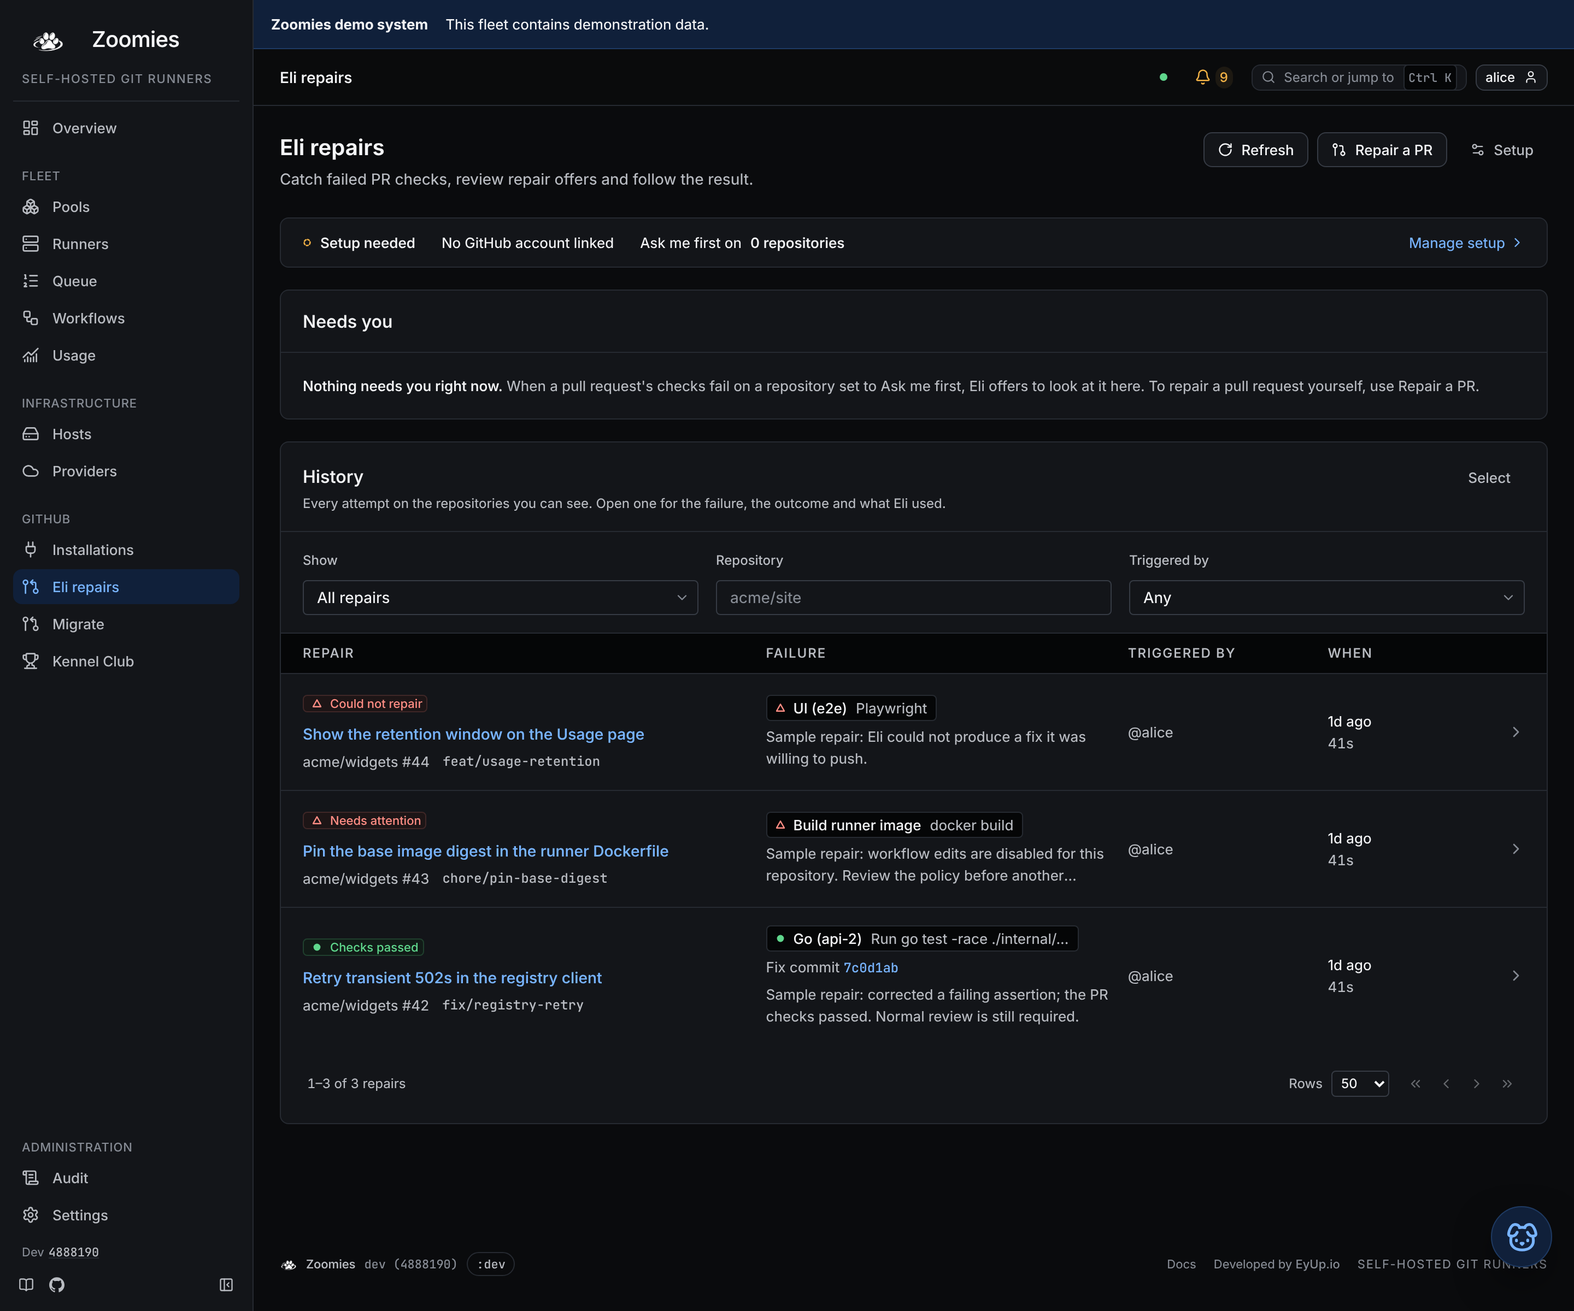
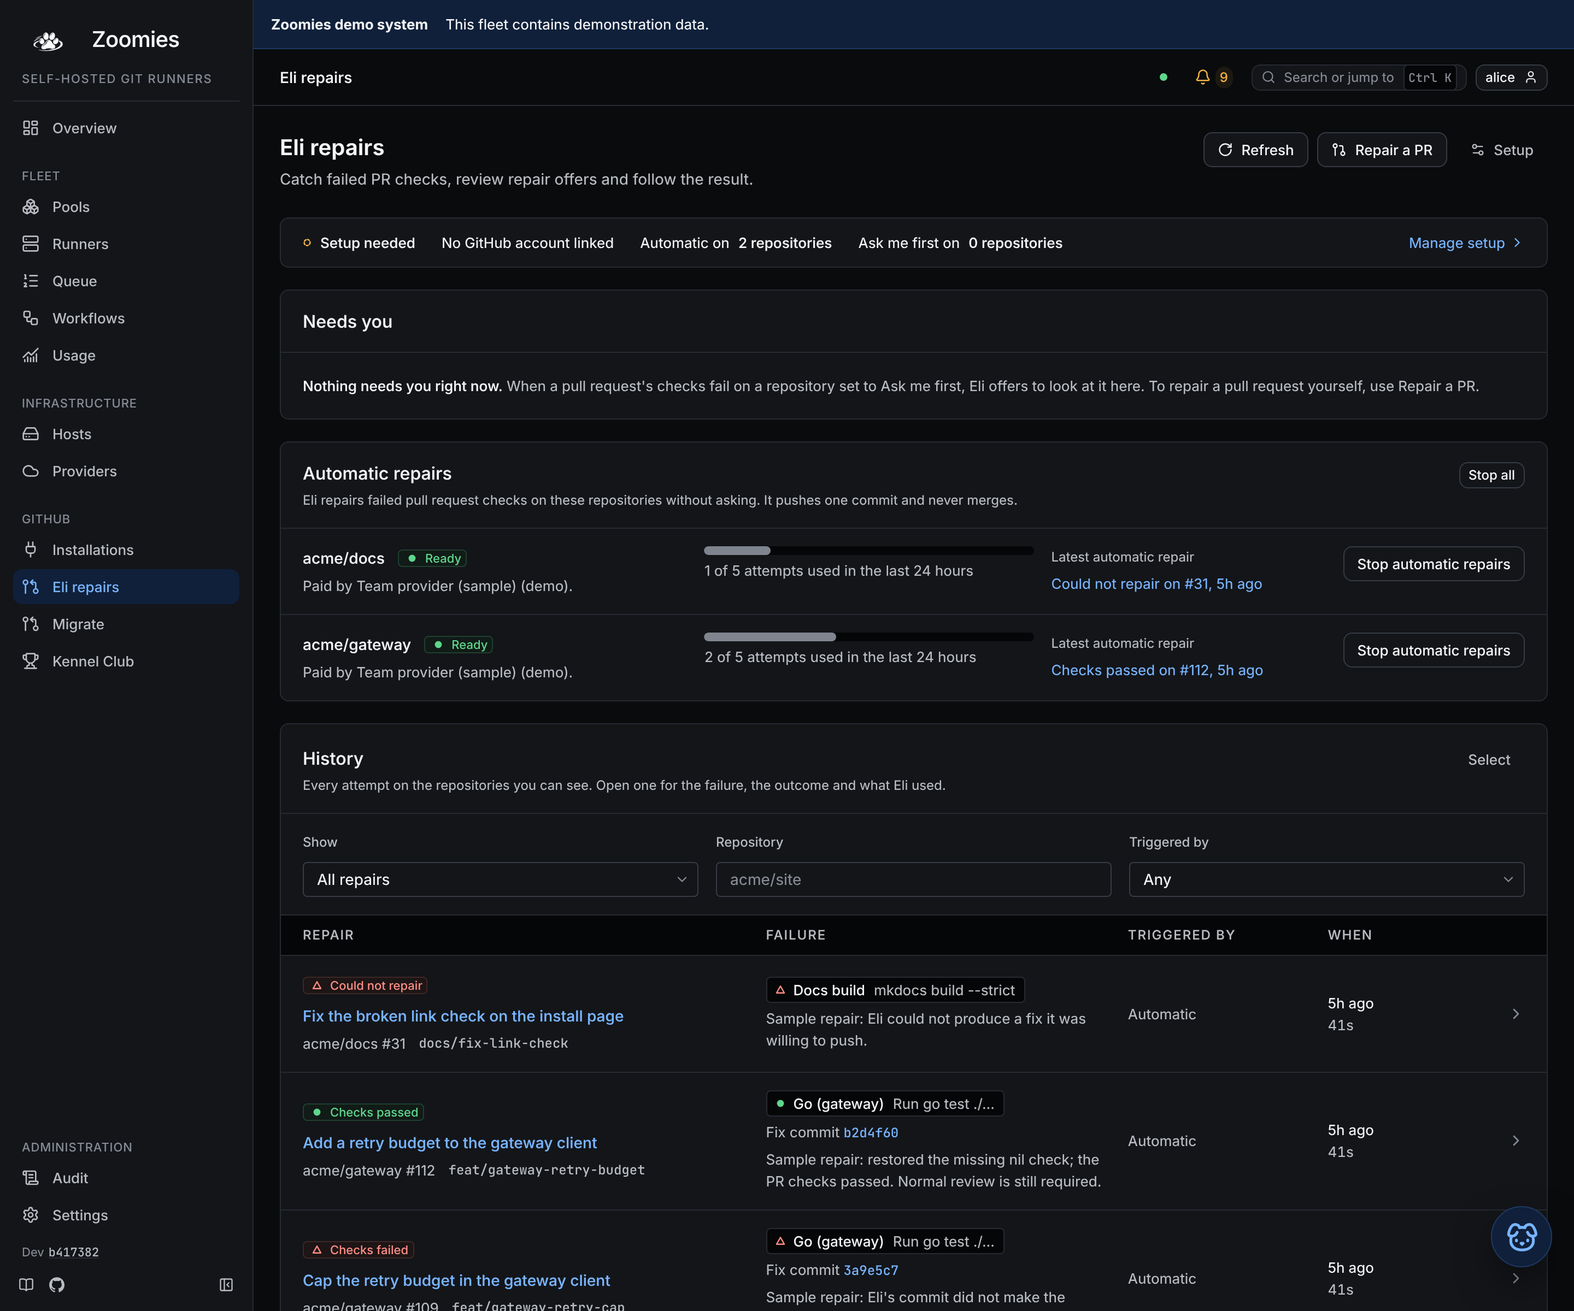
Document watching and stopping automatic repairs
Claude-Session: https://claude.ai/code/session_01H6ZixeTMVtQKxorgdEW2aq

diff --git a/web/tests/support/repair-fixture/main.go b/web/tests/support/repair-fixture/main.go
@@ -99,5 +99,71 @@ func seed() error {
 			return err
 		}
 	}
+	return seedAutomatic(ctx, st, inst.ID, &clock)
+}
+
+// seedAutomatic makes two repositories repair themselves, with an installation
+// provider to pay for it and a few repairs the policy started, so the hub shows its
+// Automatic repairs panel and an attempt shows the card that says where its policy
+// stands. The repairs are recent, inside the 24-hour window the allowance counts, and
+// every one is terminal, so the worker has nothing to run.
+func seedAutomatic(ctx context.Context, st *store.Store, installation string, clock *time.Time) error {
+	provider := &store.AssistantProvider{Name: "Team provider (sample)", Kind: "fake", Model: "demo", Enabled: true}
+	if err := st.CreateAssistantProvider(ctx, provider); err != nil {
+		return err
+	}
+	for _, repo := range []string{"acme/gateway", "acme/docs"} {
+		if err := st.SetEliRepairPolicy(ctx, store.EliRepairPolicy{
+			Repo: repo, InstallationID: installation, ProviderID: provider.ID,
+			Enabled: true, Automatic: true, DailyLimit: 5,
+		}); err != nil {
+			return err
+		}
+	}
+	*clock = time.Now().Add(-5 * time.Hour)
+	for _, sample := range []struct {
+		repo                             string
+		pull                             int
+		state, message, stage, failure   string
+		commit, title, branch, job, step string
+	}{
+		{"acme/gateway", 109, "checks_failed", "Sample repair: Eli's commit did not make the checks pass. Automatic repair does not try the same commit twice; a maintainer can ask again.", "watch_ci", "",
+			"3a9e5c7d1f0b2468ace02468ace13579bdf02468", "Cap the retry budget in the gateway client", "feat/gateway-retry-cap", "Go (gateway)", "Run go test ./..."},
+		{"acme/gateway", 112, "succeeded", "Sample repair: restored the missing nil check; the PR checks passed. Normal review is still required.", "checks_passed", "",
+			"b2d4f6081a3c5e7092b4d6f8a0c2e4681a3c5e70", "Add a retry budget to the gateway client", "feat/gateway-retry-budget", "Go (gateway)", "Run go test ./..."},
+		{"acme/docs", 31, "failed", "Sample repair: Eli could not produce a fix it was willing to push.", "prepare_fix", "unsupported_fix",
+			"", "Fix the broken link check on the install page", "docs/fix-link-check", "Docs build", "mkdocs build --strict"},
+	} {
+		const run = 5210
+		// A commit that looks like one: forty hex digits with no run of zeros at the front.
+		head := fmt.Sprintf("%016x%016x%08x", uint64(sample.pull)*0x9e3779b97f4a7c15, uint64(sample.pull)*0xc2b2ae3d27d4eb4f, uint32(sample.pull)*0x85ebca6b)
+		kept := &store.EliRepairCase{
+			PullTitle: sample.title,
+			PullURL:   fmt.Sprintf("https://github.com/%s/pull/%d", sample.repo, sample.pull),
+			Author:    "alice", Branch: sample.branch,
+			RunURL:   fmt.Sprintf("https://github.com/%s/actions/runs/%d", sample.repo, run+sample.pull),
+			Workflow: "CI", RunNumber: run + int64(sample.pull),
+			Jobs: []store.EliRepairCaseJob{{
+				Name: sample.job, Step: sample.step, DurationMS: 143000,
+				URL: fmt.Sprintf("https://github.com/%s/actions/runs/%d/job/%d", sample.repo, run+sample.pull, 91000+sample.pull),
+			}},
+		}
+		r := &store.EliRepair{
+			DedupKey: "automatic:" + sample.repo + ":" + head, InstallationID: installation,
+			Repo: sample.repo, PullNumber: sample.pull, RunID: int64(run + sample.pull), HeadSHA: head,
+			ProviderID: provider.ID, Trigger: "automatic", CommitSHA: sample.commit,
+			Details: store.EliRepairDetails{Model: "demo (sample history)", Stage: sample.stage, FailureCode: sample.failure, Case: kept,
+				SourceBytes: 27648,
+				Steps:       []store.EliRepairStep{{InputTokens: 18200, OutputTokens: 1400, UsageReported: true, RequestBytes: 61440, ElapsedMS: 33000}},
+			},
+		}
+		if _, err := st.EnqueueEliRepair(ctx, r, 5); err != nil {
+			return err
+		}
+		r.State, r.Message = sample.state, sample.message
+		if err := st.SaveEliRepair(ctx, r); err != nil {
+			return err
+		}
+	}
 	return nil
 }

diff --git a/docs/ui.md b/docs/ui.md
@@ -850,7 +850,8 @@ one repair; and setup. [How repairs work](eli.md#set-up-pr-repairs).
 
 The hub opens with one line about setup: whether you can repair (your GitHub
 account is linked and has allowed repairs) and, for an administrator, how many
-repositories are set to ask first. **Manage setup** is beside it. Under that:
+repositories repair themselves and how many ask first. **Manage setup** is
+beside it. Under that:
 
 * **Needs you** lists the offers Eli has made for pull requests whose checks
   failed on a repository set to *Ask me first*, one per pull request head. Each
@@ -861,6 +862,21 @@ repositories are set to ask first. **Manage setup** is beside it. Under that:
 * **In progress** lists the repairs Eli is working on, each with the step it is
   on and how long it has been going. **Follow** opens it. You can leave: the
   result appears here and in History.
+* **Automatic repairs** appears for an administrator when at least one
+  repository is set to *Automatic*, and for nobody else: where nothing repairs
+  itself the hub says nothing about it. Each repository has a row. It says who
+  pays (the installation provider and its model) and whether that can work, with
+  a sentence and a **Fix in setup** link when the provider is missing, disabled
+  or a person's; how much of the allowance the last 24 hours have used, which is
+  the repository's and is shared with repairs people ask for, and, when it is all
+  used, when a place frees; the latest automatic repair, which opens, and how
+  many are running now. **Stop automatic repairs** opens a dialog that asks what
+  should happen instead, **Ask me first** or **Turn repairs off**, and says what
+  becomes of a repair already under way: one that has not pushed yet stops
+  without changing the branch, and one that has pushed carries on watching its
+  checks. With two or more repositories **Stop all** does the same for every
+  row. Stopping never turns anything on; starting Automatic is a decision made
+  in setup.
 * **History** is a page at a time and filtered by state, repository and who or
   what began the repair. A row says what the repair was about: its state, the pull
   request's title, repository and branch, the job and step that failed, the
@@ -873,8 +889,8 @@ repositories are set to ask first. **Manage setup** is beside it. Under that:
 **Repair a PR** asks for a pull request's address and opens its repair page,
 where Eli checks it before anything is spent.
 
-![Eli repairs: the setup line, an empty Needs you, and History with a repair that could not fix its failure, one that needs attention and one whose checks passed, each with its pull request, its failed job and when it ran](screenshots/eli-repairs-dark.webp#only-dark){ .zoomies-shot }
-![Eli repairs: the setup line, an empty Needs you, and History with a repair that could not fix its failure, one that needs attention and one whose checks passed, each with its pull request, its failed job and when it ran](screenshots/eli-repairs-light.webp#only-light){ .zoomies-shot }
+![Eli repairs: the setup line counting two repositories that repair themselves, an empty Needs you, the Automatic repairs panel with each repository's provider, allowance, latest repair and a Stop automatic repairs button, and History with each repair's pull request, its failed job and when it ran](screenshots/eli-repairs-dark.webp#only-dark){ .zoomies-shot }
+![Eli repairs: the setup line counting two repositories that repair themselves, an empty Needs you, the Automatic repairs panel with each repository's provider, allowance, latest repair and a Stop automatic repairs button, and History with each repair's pull request, its failed job and when it ran](screenshots/eli-repairs-light.webp#only-light){ .zoomies-shot }
 
 The repair page opens from **Fix with Eli** on a failure in the Overview or in a
 job's **Why** drawer, from an offer, or from a pasted pull request. It shows the
@@ -900,6 +916,16 @@ instead of offering a repair; for a newer commit, **Check the current PR** asks
 again about the pull request as it stands now. When GitHub does not answer, the
 card says so and offers to ask again, whichever check was being made.
 
+On a repository set to Automatic, a note sits above that card. For an
+administrator it says whether Eli already tried this failure on its own, with a
+link to the attempt (Eli does not try the same commit twice by itself, so
+starting another attempt here is the retry), or that nothing has started and the
+most likely reason: the provider cannot pay, the allowance is used up, or Eli
+starts from GitHub's report of a failed job and this failure was reported before
+Automatic was switched on or never arrived. For anyone else it is one sentence
+saying the repository repairs itself, because an ordinary person cannot read what
+Eli did on its own.
+
 ![The repair page for a pull request Eli cannot yet act on: the failure it is about, a wizard to link a GitHub account, and the checks, with the account and the model provider in the way](screenshots/eli-repair-readiness-dark.webp#only-dark){ .zoomies-shot }
 ![The repair page for a pull request Eli cannot yet act on: the failure it is about, a wizard to link a GitHub account, and the checks, with the account and the model provider in the way](screenshots/eli-repair-readiness-light.webp#only-light){ .zoomies-shot }
 
@@ -918,6 +944,17 @@ states and sizes on the clipboard for a bug report, and nothing Eli read.
 
 ![One repair that could not fix its failure: how it ended, what to try next, the pull request and job it was asked to fix, and its technical details with each model call, one of them with usage the provider did not report](screenshots/eli-repair-attempt-dark.webp#only-dark){ .zoomies-shot }
 ![One repair that could not fix its failure: how it ended, what to try next, the pull request and job it was asked to fix, and its technical details with each model call, one of them with usage the provider did not report](screenshots/eli-repair-attempt-light.webp#only-light){ .zoomies-shot }
+
+A repair the repository's policy started says so under **This attempt**
+(**Started by** Automatic repairs, by the repository's policy), and an
+administrator also gets a card, **Automatic repairs on** the repository, beside
+it. The card says where that policy stands now: still automatic (who pays, how
+much of the allowance is used), with **Stop automatic repairs** and a link to the
+policy in setup, or no longer automatic. While the repair has not pushed yet it
+says that stopping now also stops this repair.
+
+![An automatic repair that did not fix its failure: Started by Automatic repairs, and the Automatic repairs card for the repository with who pays, the allowance used, Stop automatic repairs and a link to its policy](screenshots/eli-repair-automatic-dark.webp#only-dark){ .zoomies-shot }
+![An automatic repair that did not fix its failure: Started by Automatic repairs, and the Automatic repairs card for the repository with who pays, the allowance used, Stop automatic repairs and a link to its policy](screenshots/eli-repair-automatic-light.webp#only-light){ .zoomies-shot }
 
 **Repair setup** is where administrators choose the repositories and **When
 should Eli help?**, and link each requester's GitHub account to their Zoomies

diff --git a/docs/eli.md b/docs/eli.md
@@ -453,8 +453,8 @@ history below uses labelled sample outcomes; no real PR was changed to produce
 these images. A stopped attempt explains what needs attention before you spend
 another attempt, while a passed repair still needs normal PR review.
 
-![Eli repairs: the setup line, an empty Needs you, and History with a repair that could not fix its failure, one that needs attention and one whose checks passed, each with its pull request, its failed job and when it ran](screenshots/eli-repairs-dark.webp#only-dark){ .zoomies-shot }
-![Eli repairs: the setup line, an empty Needs you, and History with a repair that could not fix its failure, one that needs attention and one whose checks passed, each with its pull request, its failed job and when it ran](screenshots/eli-repairs-light.webp#only-light){ .zoomies-shot }
+![Eli repairs: the setup line counting two repositories that repair themselves, an empty Needs you, the Automatic repairs panel with each repository's provider, allowance, latest repair and a Stop automatic repairs button, and History with each repair's pull request, its failed job and when it ran](screenshots/eli-repairs-dark.webp#only-dark){ .zoomies-shot }
+![Eli repairs: the setup line counting two repositories that repair themselves, an empty Needs you, the Automatic repairs panel with each repository's provider, allowance, latest repair and a Stop automatic repairs button, and History with each repair's pull request, its failed job and when it ran](screenshots/eli-repairs-light.webp#only-light){ .zoomies-shot }
 
 From **Recent failures**, click the failure summary to inspect its failed step,
 explanation and timeline, or choose **Fix with Eli**. The repair page opens on
@@ -566,6 +566,62 @@ which on a repository whose CI fails often can use it up before anyone asks.
 The App's own GitHub handle (for example `@zoomies-eyupio2`, the name GitHub
 autocompletes) works too, once Zoomies has learned the App's slug. Recognition
 uses the comment text and does not require GitHub mention notification routing.
+
+### Watching and stopping automatic repairs
+
+A repository set to **Automatic** has Eli repair its failed pull request checks
+with nobody asking: when a job fails on the head of an open pull request that Eli
+may repair, a repair is queued, paid for by the repository's installation
+provider, and Eli pushes one commit. Because nobody is there when that happens,
+the Eli repairs page shows it, to an administrator and to nobody else: automatic
+repairs have no owner, so no one else can read them. A repository that is not
+automatic adds nothing to any page.
+
+The hub's **Automatic repairs** panel appears when at least one enabled policy is
+Automatic. Each repository has a row, and the ones that cannot run come first:
+
+* **Who pays, and whether they can.** A provider that was deleted (which leaves
+  the policy with none), is disabled or belongs to a person cannot pay for an
+  unattended repair, and the row says so in a sentence with a link to the policy
+  in setup, before the next failure is spent on it.
+* **The allowance.** How many attempts the last 24 hours have used out of the
+  daily limit. It is the repository's, shared by repairs people ask for and by the
+  automation, and a repair cleared from the history still counts. When every
+  attempt is used the row says when the oldest leaves the window. Until then no
+  automatic repair starts there, and a repair started by hand is refused for the
+  same reason.
+* **The latest automatic repair** still in the history, which opens, and how many
+  are running now.
+
+**Stop automatic repairs** (and **Stop all**, with two or more repositories) asks
+what should happen instead. **Ask me first** hands the decision back: when checks
+fail Eli offers a repair under *Needs you* and waits, and the repository keeps its
+provider, allowance and workflow setting. **Turn repairs off** clears the policy's
+enable switch and nothing else, so Eli neither offers nor starts a repair there
+and nobody can request one until the switch is turned back on in repair setup,
+which resumes Automatic as it was. Either way, a repair already queued is blocked
+when the worker reaches it, and one that has not pushed yet stops before it
+changes the branch; one that has pushed carries on watching its checks. The stop
+needs no working provider, which is the day it is wanted, writes an
+`assistant.repair_automatic_stop` audit row for each repository it changed, and
+never turns anything on: starting Automatic is a decision made in setup.
+
+A repair the policy started says so on its own page (**Started by** Automatic
+repairs, by the repository's policy), and an administrator gets a card for the
+repository's policy with the same stop. On the repair page of a failure on an
+automatic repository a note says whether Eli already tried this failure on its
+own (it does not try the same commit twice by itself, so starting another attempt
+is the retry) or why nothing has started. Eli starts an automatic repair from
+GitHub's report that a job failed, so a failure reported before Automatic was
+switched on, or whose report never arrived, is not picked up on its own. Anyone
+else who opens that page sees one sentence saying the repository repairs itself.
+
+![An automatic repair that did not fix its failure: Started by Automatic repairs, and the Automatic repairs card for the repository with who pays, the allowance used, Stop automatic repairs and a link to its policy](screenshots/eli-repair-automatic-dark.webp#only-dark){ .zoomies-shot }
+![An automatic repair that did not fix its failure: Started by Automatic repairs, and the Automatic repairs card for the repository with who pays, the allowance used, Stop automatic repairs and a link to its policy](screenshots/eli-repair-automatic-light.webp#only-light){ .zoomies-shot }
+
+The panel reads `GET /api/v1/assistant/repairs/automatic` and the stop is
+`POST /api/v1/assistant/repairs/automatic/stop`, both for administrators; the
+[API surface](api-surface.md) describes them.
 
 ## What a repair does
 

diff --git a/roadmap/progress.md b/roadmap/progress.md
@@ -91,6 +91,26 @@ evidence.
 
 ## Log
 
+* 2026-10-18: Automatic repairs can be watched and stopped from the Eli repairs
+  pages: [the spec](plans/2026-10-18-eli-automatic-repairs.md) and
+  [the plan](plans/2026-10-18-eli-automatic-repairs-plan.md). The pages built
+  earlier the same day never mentioned them. An administrator whose fleet has a
+  repository set to Automatic gets an Automatic repairs panel on the hub (who pays
+  and whether they can, how much of the allowance the last 24 hours have used and
+  when a place frees, the latest automatic repair, and a stop for one repository or
+  all of them), a card on an automatic repair's own page, and a note on the repair
+  page that says whether Eli already tried the failure or why nothing started.
+  Everyone else sees one sentence on the repair page and nothing more, and a fleet
+  with nothing automatic sees nothing at all. The API changes are additive and need
+  no migration: `GET /assistant/repairs/automatic` for administrators,
+  `POST /assistant/repairs/automatic/stop`, which only relaxes a policy and so works
+  when the provider is the problem, and `policy_mode` on readiness. The Go, unit and
+  browser suites cover it on a desktop and on a phone, with the accessibility,
+  hostile-input and component-gallery passes. The audits found two overflows, since
+  fixed: a repository name with nowhere to break pushed the attempt page's breadcrumb
+  off a phone's screen, a fault of the earlier pages, and the new card did not wrap
+  a long provider name. The hub and setup images were retaken and one was added.
+
 * 2026-10-18: Eli repairs are four pages that say what is being repaired, in the
   one pull request that carries them: [the spec](plans/2026-10-18-eli-repair-workspace.md)
   and [the plan](plans/2026-10-18-eli-repair-workspace-plan.md). The hub lists

diff --git a/roadmap/plans/2026-10-18-eli-automatic-repairs-plan.md b/roadmap/plans/2026-10-18-eli-automatic-repairs-plan.md
@@ -10,6 +10,23 @@
 
 **Spec:** [2026-10-18-eli-automatic-repairs.md](2026-10-18-eli-automatic-repairs.md)
 
+> **Where the build departed from this plan.** The store's activity read takes the
+> repositories it answers for, so its scan for the newest row can stop early and
+> no index is needed. There is no "installation removed" problem, because a
+> policy is deleted with its installation, and a deleted provider leaves the
+> policy with none. The controller keeps a failed save as that repository's result
+> and carries on with the rest. The repair page's note takes the repository's row
+> of the overview, which can say whose allowance stopped an automatic repair and
+> carries a provider problem as the better reason, in place of a spent-allowance
+> flag. The client does not sort the rows again, because the controller orders
+> them. The stop (send, toast, stay open with the reason) lives once in
+> `lib/repairs/stop.ts`. The note reads only for an administrator, only on a
+> repository that is automatic and only while the failure has not been fixed,
+> closed or replaced. The audits found two overflows, in the shared breadcrumb and
+> in the new card, both fixed with `overflow-wrap`. The screenshot fixture seeds two
+> automatic repositories, so the hub and setup images were retaken and an attempt
+> image was added.
+
 ## Global Constraints
 
 * Go 1.27.1 or later; Node 22 or later. No new dependency, Go or npm (`docs/dependencies.md`).

diff --git a/roadmap/plans/2026-10-18-eli-automatic-repairs.md b/roadmap/plans/2026-10-18-eli-automatic-repairs.md
@@ -5,8 +5,10 @@ The owner's words were: "Don't forget auto repairs if enabled. User needs
 visibility and controls." The repair pages in
 [2026-10-18-eli-repair-workspace.md](2026-10-18-eli-repair-workspace.md) are built
 and merged (#1156), and that document never mentions automatic repairs. This one
-closes the gap. The implementation plan is
-[2026-10-18-eli-automatic-repairs-plan.md](2026-10-18-eli-automatic-repairs-plan.md).
+closes the gap, and all of it is built, in the pull request that carries this
+document. The implementation plan is
+[2026-10-18-eli-automatic-repairs-plan.md](2026-10-18-eli-automatic-repairs-plan.md),
+which says where the build departed from it.
 
 ## What was asked
 
